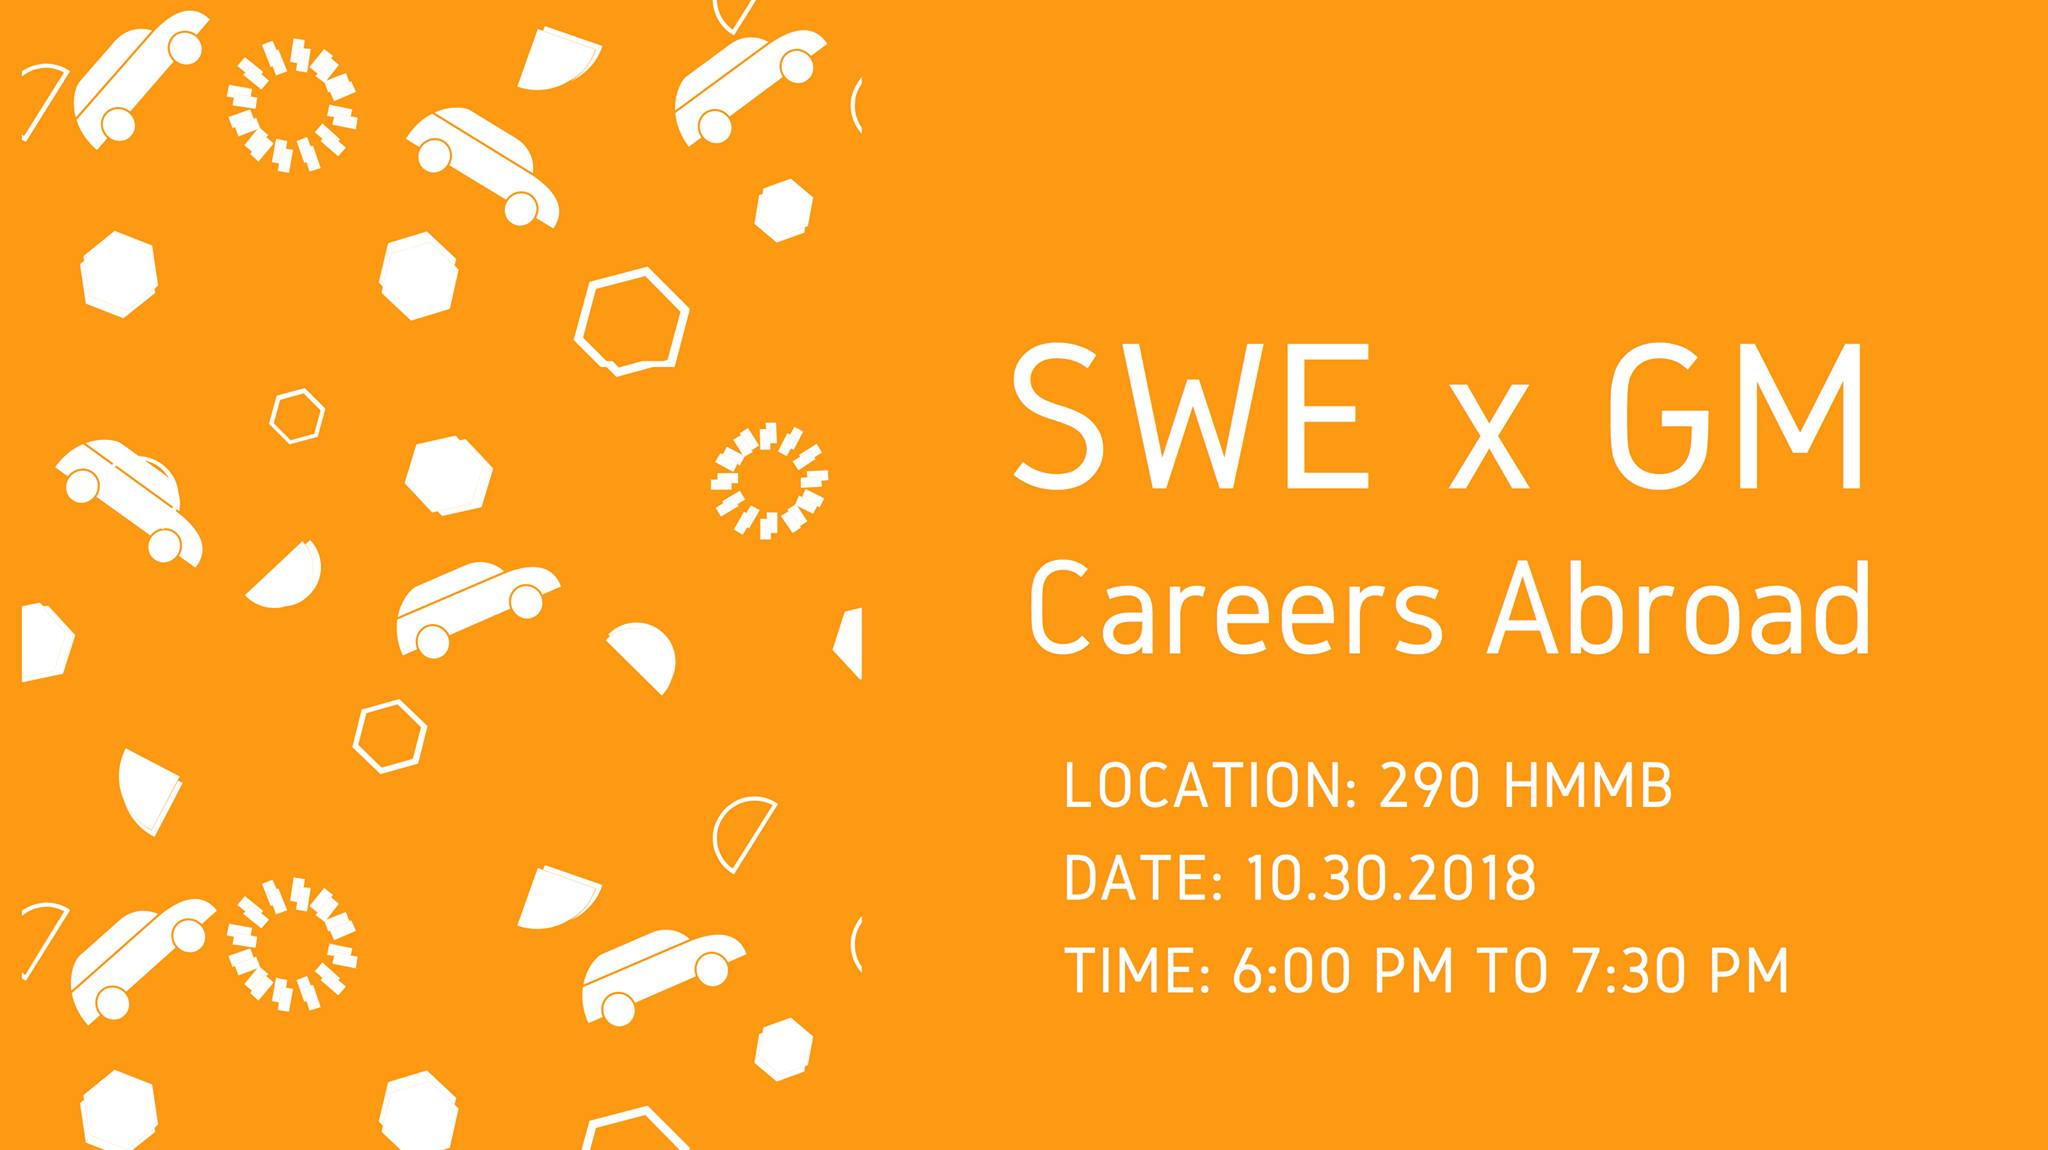
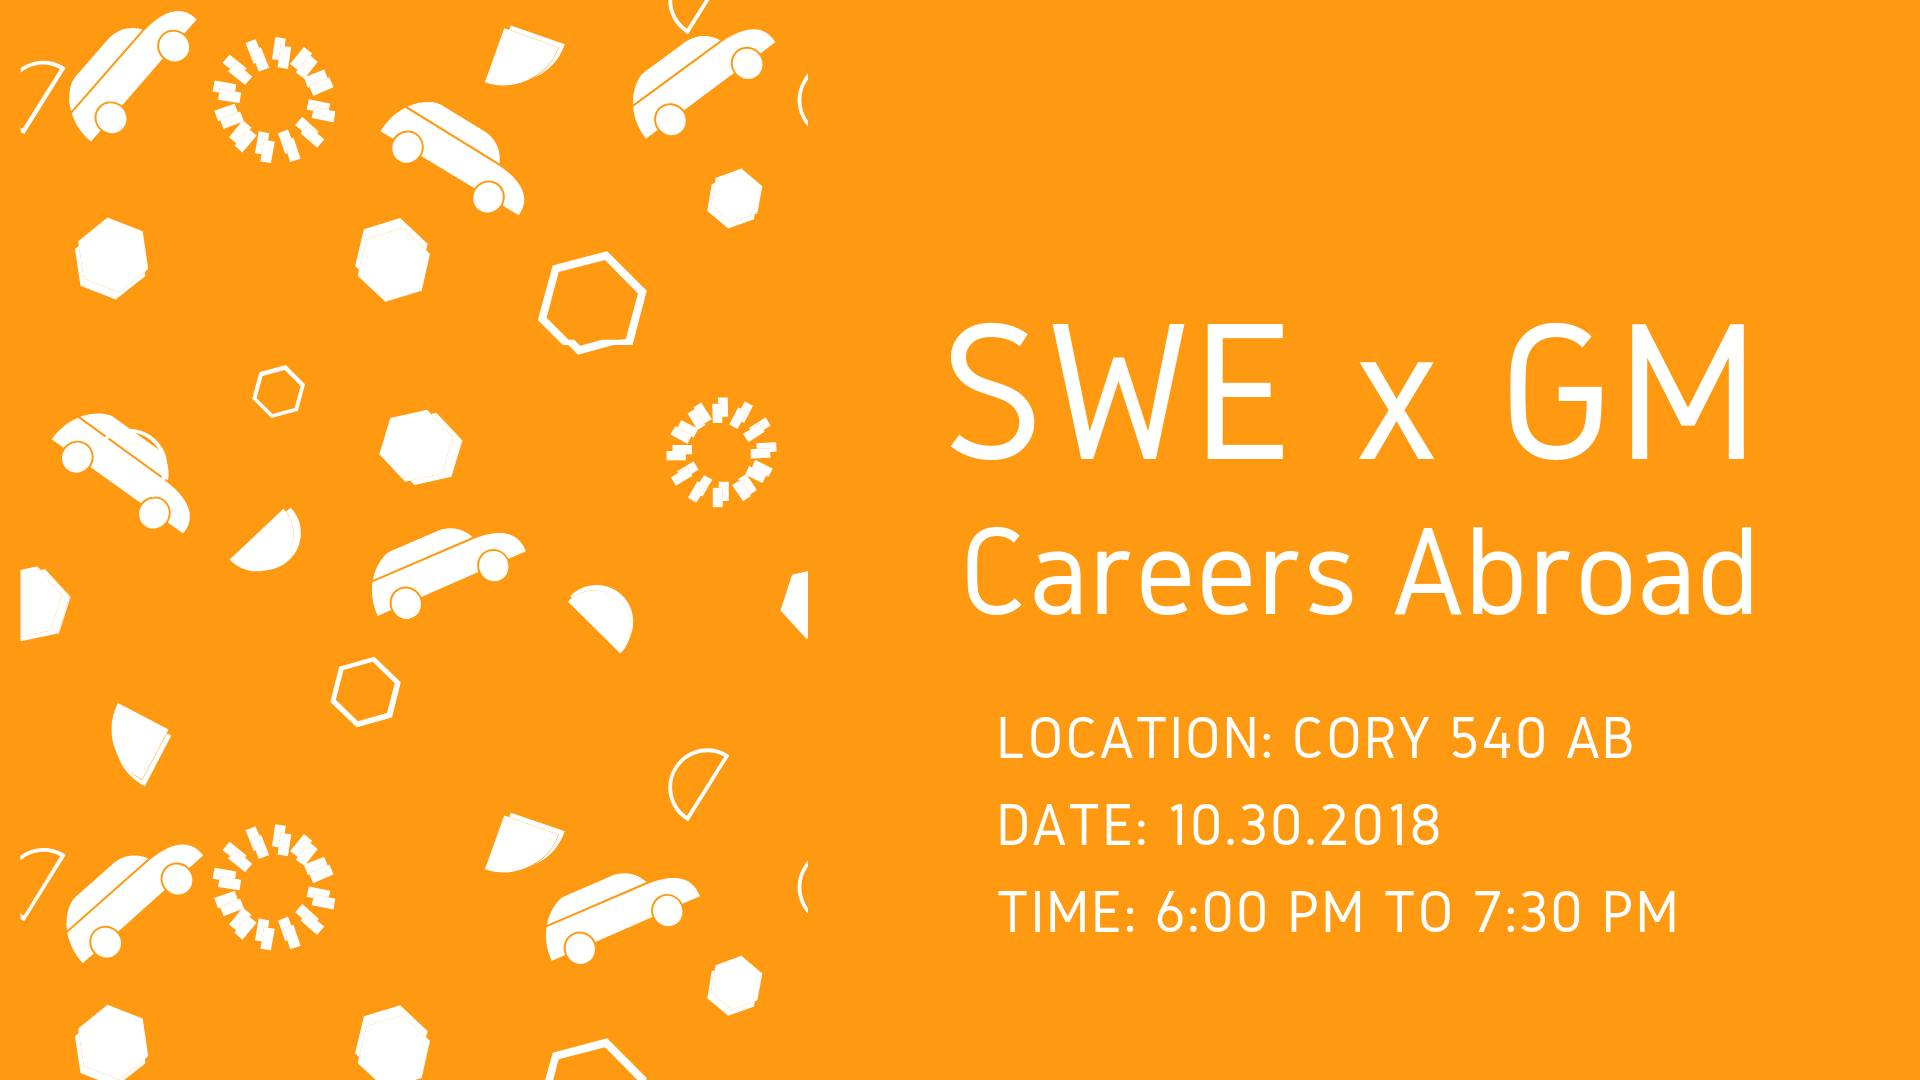
ahh

diff --git a/partials/pdm.html b/partials/pdm.html
@@ -105,7 +105,7 @@
         <div class="caption">
           <br>
           <h3>Career Opportunities Abroad with General Motors</h3>
-          <p>Date: 10/30 6-7:30pm | Location: 290 HMMB</p>
+          <p>Date: 10/30 6-7:30pm | Location: 540AB Cory</p>
           <p>Join General Motors recruiters and engineers to learn about how to combine travel with your career. Representatives from GM will be discussing how to direct your career to involve travelling--whether that be working in a different state, a different country, or just traveling as part of your job!</p>
           <br>
           <p><a href="https://www.facebook.com/events/892183270977968/" class="btn btn-primary" role="button">Learn More</a></p>
